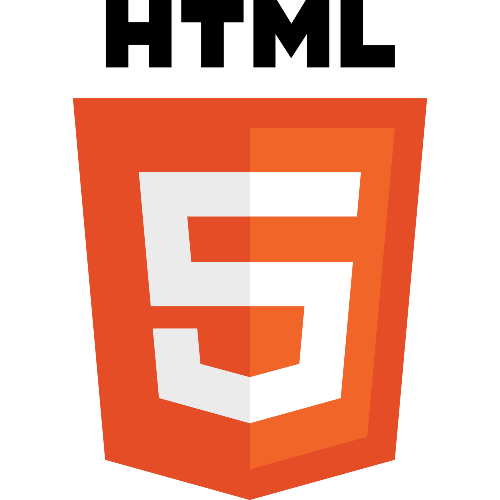
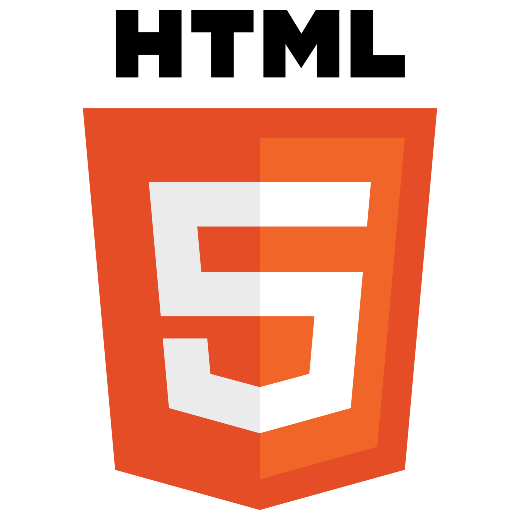
Summary

diff --git a/index.html b/index.html
@@ -37,7 +37,7 @@
     <div class="text-center">
       <h1>I am Seth Kerrey</h1>
       <p>Web designer</p>
-      <img src="img/logo.png" alt="logo">
+      <img src="img/logo.png" alt="logo" height="180" width="180">
     </div>
   </header>
 
@@ -55,12 +55,12 @@
               </div>
               <div class="col-md-8">
                 <p>
-                    Seth is an emerging website developer located in the Midwest, Omaha, NE.
+                    Seth is an emerging website developer located in Omaha, NE.
                     He specializes in creating beautiful, usable, professional websites while adhering to best practices,
-                    using HTML5, CSS3, JS. He also has experience with libraries like jQuery and Bootstrap.
+                    using HTML5, CSS3, & JS. He also has experience with libraries like jQuery and Bootstrap.
                 </p>
                 <p>
-                When Seth is not studying he engages in activities with friends and family. Some days he will exercise, go on walks, or spend time planning and organizing events. Other areas of interest for Seth are video games, sand volleyball, and reading.
+                When Seth is not working or studying he engages in activities with friends and family. Some days he will exercise, go on walks, or spend time planning and organizing events. Other areas of interest for Seth are video games, sand volleyball, and reading.
                 </p>
               </div>
             </div>
@@ -72,13 +72,13 @@
             <h2>What I do</h2>
             <div class="row">
               <div class="col-md-4"> 
-                <img src="img/html1.png" class="img-responsive" alt="html">
+                <img src="img/html.png" class="img-responsive" alt="html">
               </div>
               <div class="col-md-4">
-                <img src="img/css2.png" class="img-responsive" alt="css">
+                <img src="img/css.png" class="img-responsive" alt="css">
               </div>
               <div class="col-md-4">
-                <img src="img/js2.png" class="img-responsive" alt="js">
+                <img src="img/js.png" class="img-responsive" alt="js">
               </div>
             </div>
           </div>
@@ -145,14 +145,14 @@
               <div class="item active">
                 <img src="img/theland.jpg" class="img-responsive" alt="...">
                 <div class="carousel-caption">
-                  <h3 class="h5"><a href="https://sjkerrey.portfolios.mccinfo.net/thelandne/">Back to the Land Nebraska</a></h3>
+                  <h3 class="h5"><a href="https://sjkerrey.portfolios.mccinfo.net/thelandne/" target="_blank">Back to the Land Nebraska</a></h3>
                   <p>2021</p>
                 </div>
               </div>
               <div class="item">
                 <img src="img/pipedown.jpg" class="img-responsive" alt="...">
                 <div class="carousel-caption">
-                  <h3 class="h5"><a href="https://skerrey.github.io/projects/pipedownrecords/home.html">Pipe Down Records</a></h3>
+                  <h3 class="h5"><a href="https://skerrey.github.io/projects/pipedownrecords/home.html" target="_blank">Pipe Down Records</a></h3>
                   <p>2020</p>
                 </div>
               </div>
@@ -160,7 +160,7 @@
               <div class="item">
                 <img src="img/keyboard.jpg" class="img-responsive" alt="...">
                 <div class="carousel-caption">
-                  <h3 class="h5"><a href="https://skerrey.github.io/projects/keyboard/index.html">JS Keyboard</a></h3>
+                  <h3 class="h5"><a href="https://skerrey.github.io/projects/keyboard/index.html" target="_blank">JS Keyboard</a></h3>
                   <p>2021</p>
                 </div>
               </div>
